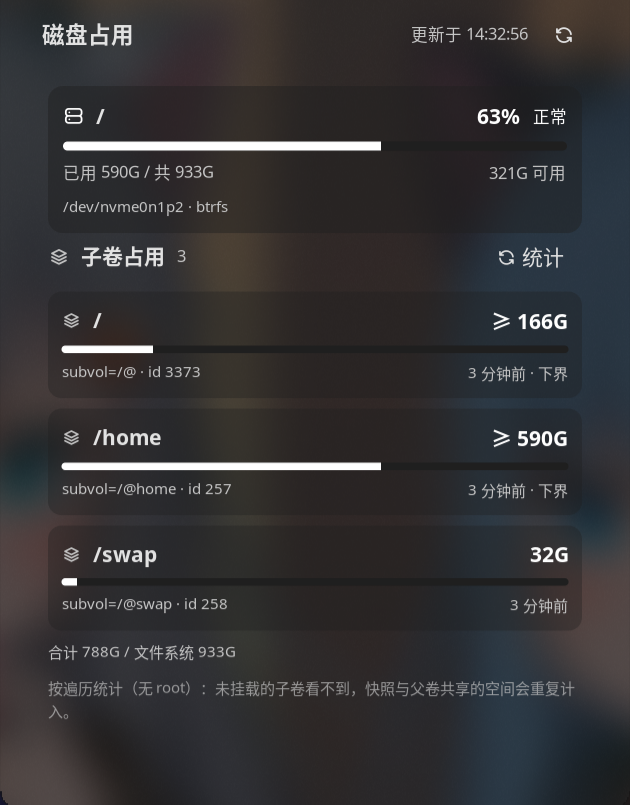
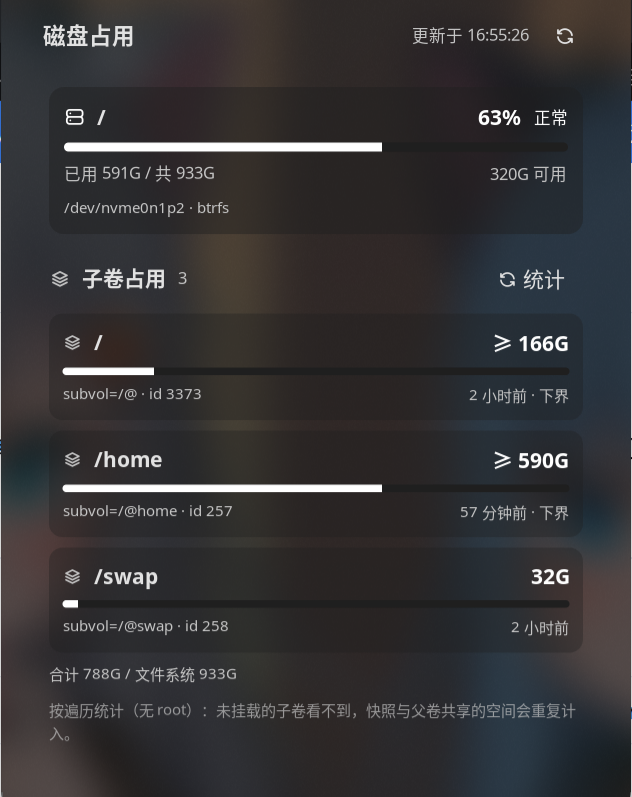
fix: 面板打开期间才重画，并把子卷区与上方拉开间距（1.1.1）
- 面板改为 1 秒 tick 驱动（panel.setWantsSecondTicks + setUpdateInterval(1000)），
  update() 按到期时间节流：统计进行中每秒重画，否则按刷新间隔；onClose 关掉 tick，
  关着的时候不渲染 —— 之前面板打开后一直停在旧画面上不刷新。
- 子卷区与上方文件系统卡片之间加一条 spacer，视觉上分开。
- README：补「面板重画」说明与 scan IPC；docs/panel.png 换成 1.1.1 的实拍。

diff --git a/README.md b/README.md
@@ -103,13 +103,14 @@ noctalia plugins lint ~/.local/share/noctalia/plugins/ylxc-disk
 详情面板：
 
 - 上半部分每个物理块设备文件系统一张卡片，含占用百分比、阈值状态、进度条、`已用 / 共` 与 `设备 · 文件系统`；右上角的刷新按钮立即取数。
-- 下半部分是各子卷 / 挂载点：**点某一行**只重新统计这一个，标题右侧的「统计」按钮重新统计所有未统计或已过期的项。统计进行中标题旁显示 `统计中 N 秒…`，并且面板刷新临时加快到 2 秒一次，进度看得见。
+- 下半部分是各子卷 / 挂载点：**点某一行**只重新统计这一个，标题右侧的「统计」按钮重新统计所有未统计或已过期的项。统计进行中标题旁显示 `统计中 N 秒…`，面板打开期间每秒一个 tick、按刷新间隔重画（统计进行中每秒重画），进度看得见。
 
 ## 工作原理与细节
 
 - **数据源**：`noctalia.diskMounts()` 列出物理块设备文件系统（按设备去重、按挂载路径排序），`noctalia.diskStats(path)` 返回该挂载点的一次采样 —— `usagePercent` / `totalBytes` / `freeBytes` / `availableBytes`。两者都接受绝对路径或 `~/` 路径，返回 `nil` 表示路径不可用。
 - **占用率**：用 `usagePercent`（与 `df` 的 `Use%` 一致，即 `(total - free) / total`）。`freeBytes` 与 `availableBytes` 不同，后者已扣掉 root 预留 —— 「剩余可用」显示的是 `availableBytes`。
 - **开销**：栏组件每次刷新只调用一次 `diskMounts` 与一次 `diskStats`；子卷统计只有在需要时才跑，跑完就把结果缓存起来。
+- **面板重画**：面板只在打开期间干活 —— `onOpen` 里开 `panel.setWantsSecondTicks(true)` 与 `noctalia.setUpdateInterval(1000)`，`update()` 再按到期时间节流（统计中 1 秒一画，否则按刷新间隔），`onClose` 关掉 tick，关着的时候不渲染。
 - **配色**：阈值分级 `ok` / `warn` / `crit` → 主题角色 `primary` / `tertiary` / `error`。
 - **IPC**：`noctalia msg plugin ylxc/disk:usage focused refresh`、`next` / `prev`（切换磁盘）、`panel`（开合面板）、`scan`（不等面板就能重跑子卷统计；可以把它绑到快捷键或脚本上）。
 
